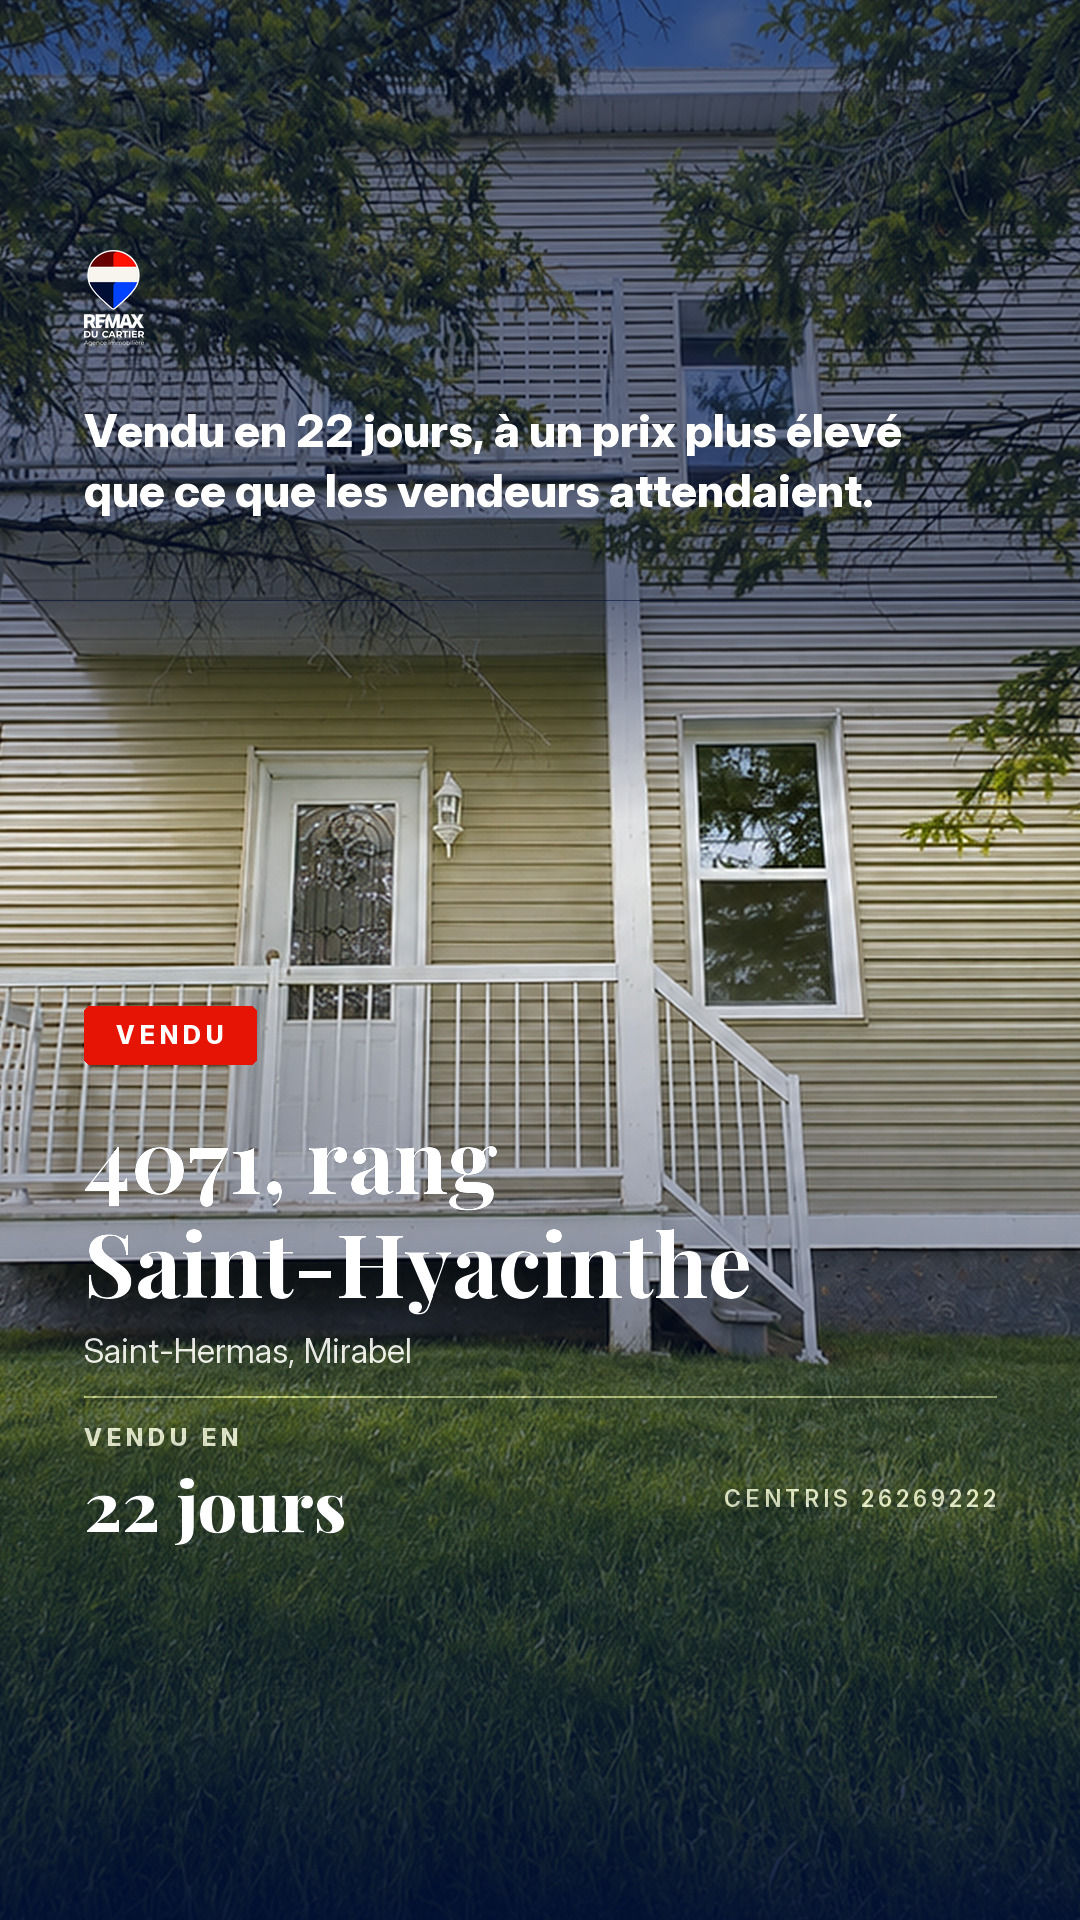
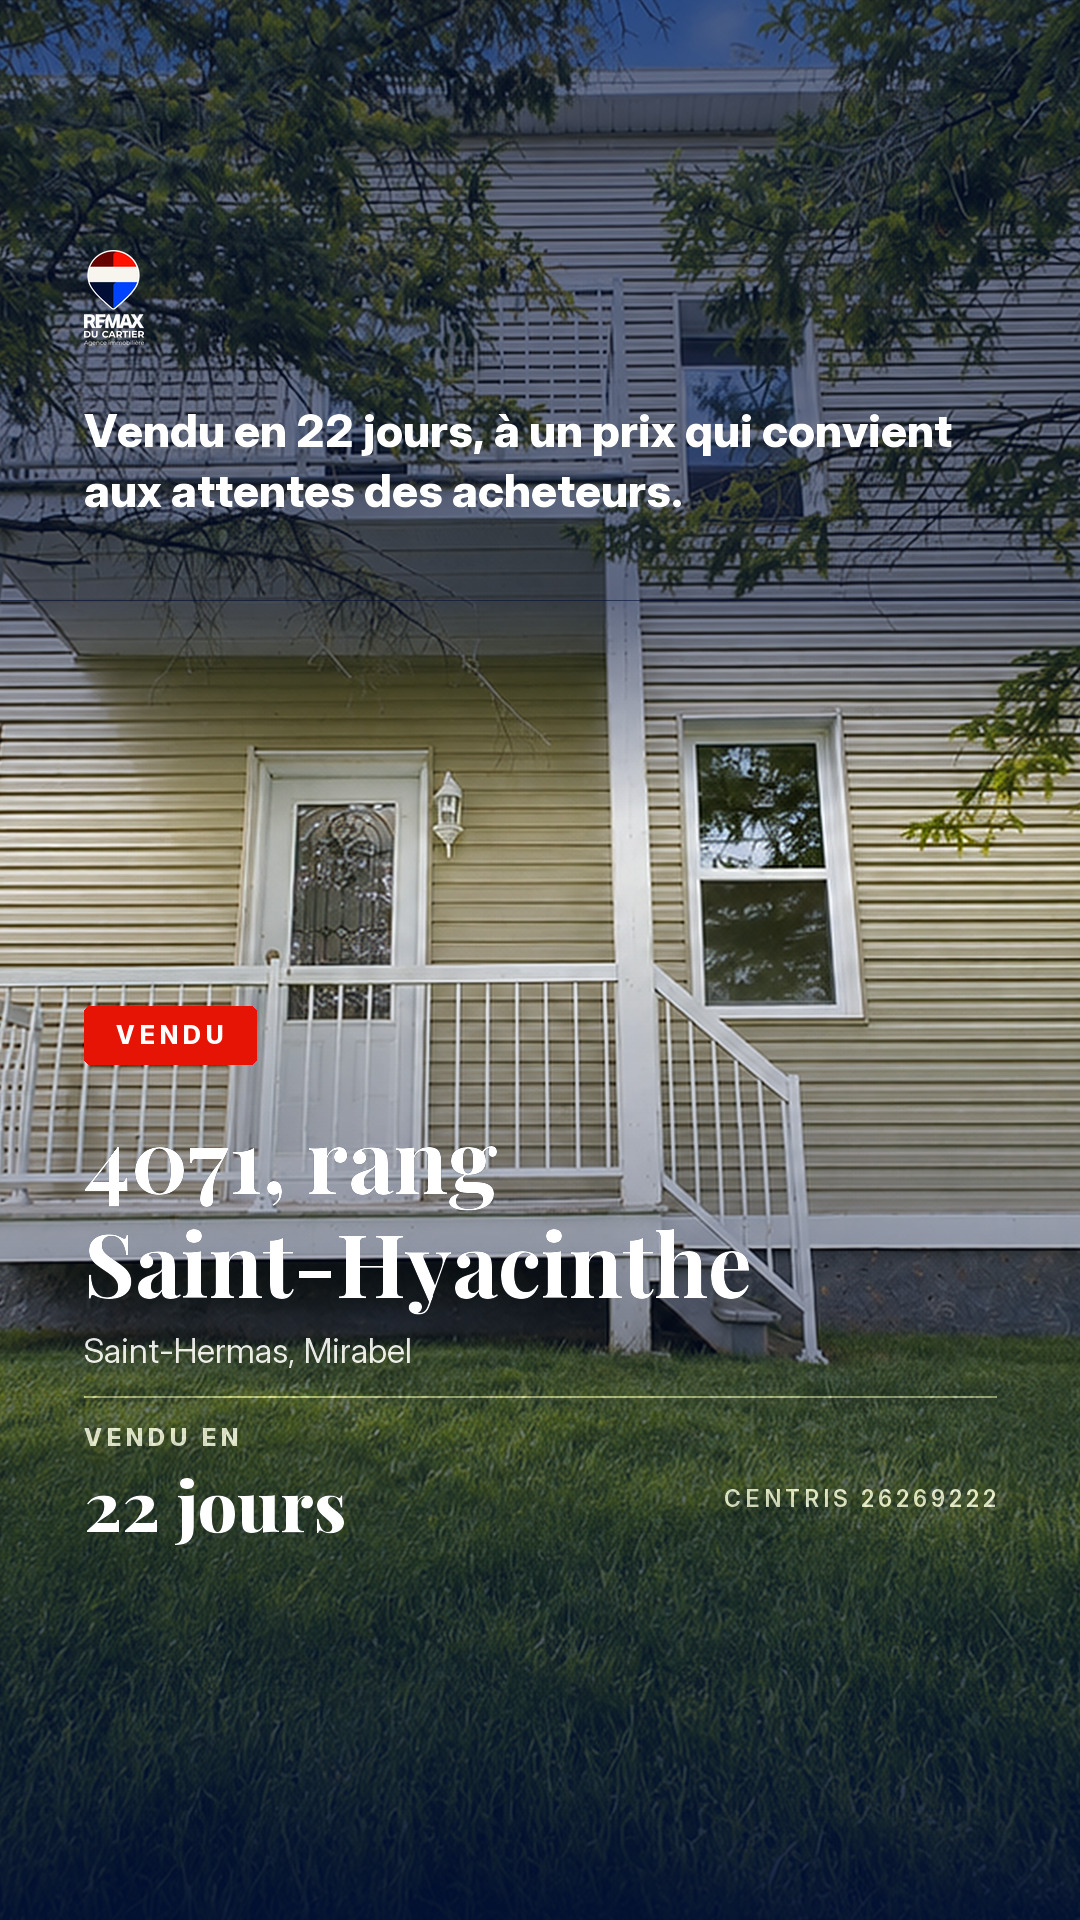
refactor: le 4071 annonce un prix qui convient aux attentes des acheteurs
La formulation d un prix qui depasse les attentes laisse place a un prix qui
convient aux attentes des acheteurs, dans l accroche, l ecran du resultat,
les deux phrases concernees et la legende:

  Un prix qui convient aux attentes des acheteurs.
  Le bon prix. Et plus vite que prevu.

Plus aucun ecart de prix n est annonce pour cette propriete, seulement le
delai de 22 jours. Le 28, rue St-Hilaire garde le sien.

Changed region(s): [[0.0917, 0.2188, 0.8861, 0.2812]]

diff --git a/carrousel-instagram/vendu/generer-vendu.py b/carrousel-instagram/vendu/generer-vendu.py
@@ -124,13 +124,13 @@ PROPRIETES = [
         titre1="4071, rang", titre2="Saint-Hyacinthe",
         secteur="Saint-Hermas, Mirabel", centris="26269222",
         delai="22 jours",
-        accroche="Vendu en 22 jours, à un prix plus élevé que ce que les "
-                 "vendeurs attendaient.",
+        accroche="Vendu en 22 jours, à un prix qui convient aux attentes "
+                 "des acheteurs.",
         resultat=dict(
             eyebrow="LE RÉSULTAT",
             titre="Vendu en 22 jours",
-            points=["Un prix de vente plus élevé que les attentes "
-                    "des vendeurs",
+            points=["Un prix de vente qui convient aux attentes "
+                    "des acheteurs",
                     "Une maison de 1935 avec sa grange, sur 22 152 pi²",
                     "Merci à nos vendeurs pour leur confiance"],
             photo="25-Vue exterieure 2.png", fy=0.55),
@@ -143,10 +143,10 @@ PROPRIETES = [
             ("11-Escalier vers le 2e etage - RDC.png", "gauche", 0.36, 0.50,
              "Une maison de 1935\nqui n'a pas attendu."),
             ("08-Chambre principale - RDC.png", "zoom", 0.50, 0.50,
-             "Le prix espéré par\nles vendeurs? Dépassé."),
+             "Un prix qui convient\naux attentes des acheteurs."),
             ("13-Deuxieme cuisine - 2e etage.png", "droite", 0.44, 0.50, None),
             ("28-Galerie - vue vers la rue.png", "arc_inverse", 0.50, 0.50,
-             "Plus cher que prévu.\nPlus vite que prévu."),
+             "Le bon prix.\nEt plus vite que prévu."),
         ],
         cadres=[
             ("23-Vue de la rue.png", None, 0.5, None),

diff --git a/carrousel-instagram/vendu/README.md b/carrousel-instagram/vendu/README.md
@@ -74,7 +74,7 @@ par le résultat obtenu pour les vendeurs.
 | Propriété | Dossier | Résultat annoncé |
 |-----------|---------|------------------|
 | 28, rue St-Hilaire, Longueuil (Centris 26368231) | `28-rue-st-hilaire-longueuil/` | Vendu en 28 jours, près de 20 000 $ de plus que le prix attendu |
-| 4071, rang Saint-Hyacinthe, Mirabel (Centris 26269222) | `4071-rang-saint-hyacinthe-mirabel/` | Vendu en 22 jours, à un prix plus élevé que les attentes |
+| 4071, rang Saint-Hyacinthe, Mirabel (Centris 26269222) | `4071-rang-saint-hyacinthe-mirabel/` | Vendu en 22 jours, à un prix qui convient aux attentes des acheteurs |
 | 35, terrasse Jacques-Léonard, Montréal (Centris 15815581) | `35-terrasse-jacques-leonard/` | en attente des chiffres de vente |
 
 Pour la propriété en attente, il manque deux informations: le délai de vente
@@ -118,8 +118,8 @@ Pas juste vendu. Bien vendu.
 ```
 Vingt-deux jours. Pas six mois.
 Une maison de 1935 qui n'a pas attendu.
-Le prix espéré par les vendeurs? Dépassé.
-Plus cher que prévu. Plus vite que prévu.
+Un prix qui convient aux attentes des acheteurs.
+Le bon prix. Et plus vite que prévu.
 Pas juste vendu. Bien vendu.
 ```
 
@@ -167,11 +167,10 @@ Le reel affiche exactement ce qui a été convenu, sans arrondi vers le haut.
 4071, rang Saint-Hyacinthe:
 
 - vendu en 22 jours
-- à un prix de vente plus élevé que les attentes des vendeurs
+- à un prix de vente qui convient aux attentes des acheteurs
 
-Aucun montant n'est annoncé pour le 4071: seul l'écart est connu, pas le
-chiffre. Le jour où il l'est, l'ajouter dans `accroche` et dans le premier
-point de `resultat` rendrait le reel plus fort.
+Aucun montant n'est annoncé pour le 4071, et aucun écart avec le prix
+demandé: le reel dit que le prix convenait aux acheteurs, rien de plus.
 
 ## Regénérer
 
@@ -222,7 +221,7 @@ Centris 26368231
 ```
 VENDU | 4071, rang Saint-Hyacinthe, Saint-Hermas, Mirabel
 
-Vingt-deux jours. Pas six mois. Et à un prix plus élevé que ce que les vendeurs attendaient.
+Vingt-deux jours. Pas six mois. Et à un prix qui convient aux attentes des acheteurs.
 
 Une maison de 1935 avec sa grange, sur 22 152 pi² en bordure des champs, dans la même famille depuis 1990.
 
